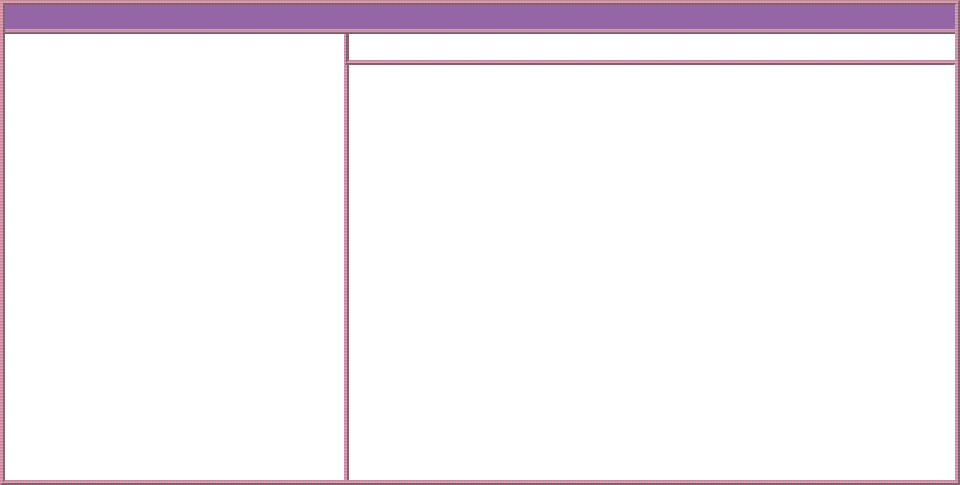
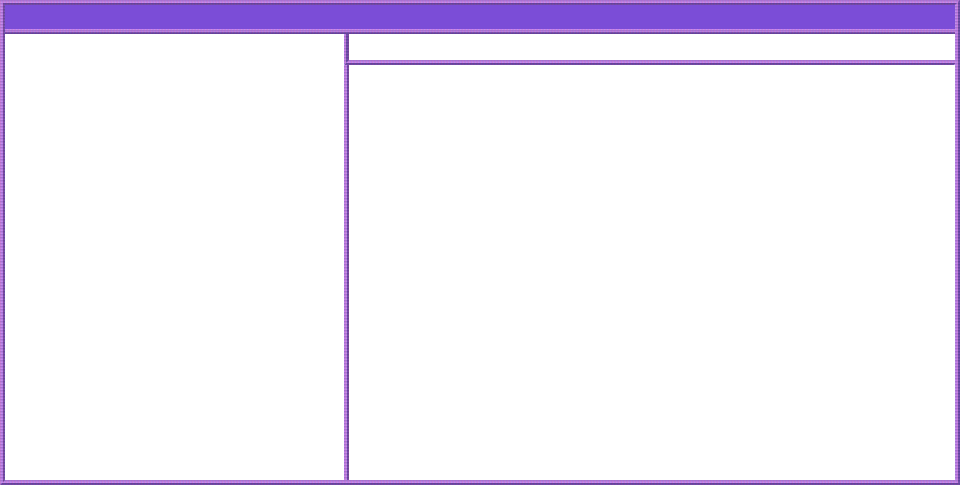
Update horizontal only pixel overlay and urgly af color

Changed region(s): [[0.0, 0.0, 1.0, 1.0]]

diff --git a/main.css b/main.css
@@ -1,8 +1,8 @@
 /*Most easy/basic changes can be done up here in the root area, edit the rest if you know what it does.*/
 @media all and (orientation:landscape) {
   :root{
-  --stripebackground:#af92b5;         /*The color of the small stripe just under the header*/
-  --windowbackground: #8b7991;        /*The color of the background of the main window main area.*/
+  --stripebackground:#874CCC;         /*The color of the small stripe just under the header*/
+  --windowbackground: #F27BBD;        /*The color of the background of the main window main area.*/
   --maintextcolor:#000;               /*The color of the text in the main area.*/
   --headercolor:#fff;                 /*The color of the text in the header/title.*/
   /* --linktextcolor:var(--maintextcolor); /*This line means that the links will have the same color as the normal text in the main area of the window. Change if you want different colors.*/
@@ -21,8 +21,8 @@
 
   /* The following settings are for the pixel overlay effect:*/
   --pixeloverlay-exists:visible;        /*Activate or deactivate the "pixel effect" overlay. Set to 'visible' to activate, set to 'hidden' to deactivate. When set to 'hidden' the other settings in this category don't matter.*/
-  --pixeloverlay-itensity:0.1;          /*How intense the overlay should be. Float between 0 and 1, but recommended range is more between 0 and 0.3. Higher values makes startpage darker.*/
-  --pixeloverlay-resolution:1;          /*A multiplier for the "pixel effect" size. 1 is default, higher means "bigger" pixels. If you use non whole numbers the probability of moiré patterns forming (and looking badly) increases a lot.*/
+  --pixeloverlay-itensity:0.3;          /*How intense the overlay should be. Float between 0 and 1, but recommended range is more between 0 and 0.3. Higher values makes startpage darker.*/
+  --pixeloverlay-resolution:1.0063;          /*A multiplier for the "pixel effect" size. 1 is default, higher means "bigger" pixels. If you use non whole numbers the probability of moiré patterns forming (and looking badly) increases a lot.*/
 
   /* The following setting are for the vignette overlay effect:*/
   --vignetteoverlay-exists:visible;     /*Activate or deactivate the "vignette effect" overlay. Set to 'visible' to activate, set to 'hidden' to deactivate. When set to 'hidden' the other settings in this category don't matter.*/
@@ -176,8 +176,7 @@
     top: 0px;
     left: 0px;
     pointer-events: none;
-    background: repeating-linear-gradient(90deg,rgba(0, 0, 255, var(--pixeloverlay-itensity)),rgba(0, 0, 255, var(--pixeloverlay-itensity)) calc(var(--pixeloverlay-resolution)*1px),rgba(255, 0, 0, var(--pixeloverlay-itensity)) calc(var(--pixeloverlay-resolution)*1px),rgba(255, 0, 0, var(--pixeloverlay-itensity)) calc(var(--pixeloverlay-resolution)*2px),rgba(0, 255, 0, var(--pixeloverlay-itensity)) calc(var(--pixeloverlay-resolution)*2px),rgba(0, 255, 0, var(--pixeloverlay-itensity)) calc(var(--pixeloverlay-resolution)*3px)),
-    repeating-linear-gradient(0deg,rgba(0, 0, 0, var(--pixeloverlay-itensity)),rgba(0, 0, 0, var(--pixeloverlay-itensity)) calc(var(--pixeloverlay-resolution)*1px), rgba(255, 255, 255, 0) 1px,rgba(255, 255, 255, 0) calc(var(--pixeloverlay-resolution)*3px));
+    background: repeating-linear-gradient(0deg,rgba(0, 0, 0, var(--pixeloverlay-itensity)),rgba(0, 0, 0, var(--pixeloverlay-itensity)) calc(var(--pixeloverlay-resolution)*1px), rgba(255, 255, 255, 0) 1px,rgba(255, 255, 255, 0) calc(var(--pixeloverlay-resolution)*3px));
     visibility: var(--pixeloverlay-exists);
   }
   .vignette{
@@ -212,8 +211,8 @@
 
 @media all and (orientation:portrait) {
   :root{
-  --stripebackground:#af92b5;         /*The color of the small stripe just under the header*/
-  --windowbackground:#8b7991;        /*The color of the background of the main window main area.*/
+  --stripebackground:#874CCC;         /*The color of the small stripe just under the header*/
+  --windowbackground:#F27BBD;        /*The color of the background of the main window main area.*/
   --maintextcolor:#000;               /*The color of the text in the main area.*/
   --headercolor:#fff;                 /*The color of the text in the header/title.*/
   /* --linktextcolor:var(--maintextcolor); /*This line means that the links will have the same color as the normal text in the main area of the window. Change if you want different colors.*/
@@ -232,8 +231,8 @@
 
   /* The following settings are for the pixel overlay effect:*/
   --pixeloverlay-exists:visible;        /*Activate or deactivate the "pixel effect" overlay. Set to 'visible' to activate, set to 'hidden' to deactivate. When set to 'hidden' the other settings in this category don't matter.*/
-  --pixeloverlay-itensity:0.1;          /*How intense the overlay should be. Float between 0 and 1, but recommended range is more between 0 and 0.3. Higher values makes startpage darker.*/
-  --pixeloverlay-resolution:1;          /*A multiplier for the "pixel effect" size. 1 is default, higher means "bigger" pixels. If you use non whole numbers the probability of moiré patterns forming (and looking badly) increases a lot.*/
+  --pixeloverlay-itensity:0.3;          /*How intense the overlay should be. Float between 0 and 1, but recommended range is more between 0 and 0.3. Higher values makes startpage darker.*/
+  --pixeloverlay-resolution:1.0063;          /*A multiplier for the "pixel effect" size. 1 is default, higher means "bigger" pixels. If you use non whole numbers the probability of moiré patterns forming (and looking badly) increases a lot.*/
 
   /* The following setting are for the vignette overlay effect:*/
   --vignetteoverlay-exists:visible;     /*Activate or deactivate the "vignette effect" overlay. Set to 'visible' to activate, set to 'hidden' to deactivate. When set to 'hidden' the other settings in this category don't matter.*/
@@ -387,8 +386,7 @@
     top: 0px;
     left: 0px;
     pointer-events: none;
-    background: repeating-linear-gradient(90deg,rgba(0, 0, 255, var(--pixeloverlay-itensity)),rgba(0, 0, 255, var(--pixeloverlay-itensity)) calc(var(--pixeloverlay-resolution)*1px),rgba(255, 0, 0, var(--pixeloverlay-itensity)) calc(var(--pixeloverlay-resolution)*1px),rgba(255, 0, 0, var(--pixeloverlay-itensity)) calc(var(--pixeloverlay-resolution)*2px),rgba(0, 255, 0, var(--pixeloverlay-itensity)) calc(var(--pixeloverlay-resolution)*2px),rgba(0, 255, 0, var(--pixeloverlay-itensity)) calc(var(--pixeloverlay-resolution)*3px)),
-    repeating-linear-gradient(0deg,rgba(0, 0, 0, var(--pixeloverlay-itensity)),rgba(0, 0, 0, var(--pixeloverlay-itensity)) calc(var(--pixeloverlay-resolution)*1px), rgba(255, 255, 255, 0) 1px,rgba(255, 255, 255, 0) calc(var(--pixeloverlay-resolution)*3px));
+    background:repeating-linear-gradient(0deg,rgba(0, 0, 0, var(--pixeloverlay-itensity)),rgba(0, 0, 0, var(--pixeloverlay-itensity)) calc(var(--pixeloverlay-resolution)*1px), rgba(255, 255, 255, 0) 1px,rgba(255, 255, 255, 0) calc(var(--pixeloverlay-resolution)*3px));
     visibility: var(--pixeloverlay-exists);
   }
   .vignette{

diff --git a/resources/style/pandoc.html b/resources/style/pandoc.html
@@ -1,0 +1,102 @@
+<style type="text/css">
+/* https://github.com/markdowncss/retro/blob/master/css/retro.css */
+
+@font-face {
+    font-family: "lemon";
+    src: url('lemon.woff');
+}
+
+/*
+@media print {
+    *, *:before, *:after {
+        background: transparent !important;
+        color: #000 !important;
+        box-shadow: none !important;
+        text-shadow: none !important;
+    }
+    a, a:visited { text-decoration: underline; }
+    a[href]:after { content: " (" attr(href) ")"; }
+    abbr[title]:after { content: " (" attr(title) ")"; }
+    a[href^="#"]:after, a[href^="javascript:"]:after { content: ""; }
+    pre, blockquote { border: 1px solid #999; page-break-inside: avoid; }
+    thead { display: table-header-group; }
+    tr, img { page-break-inside: avoid; }
+    img { max-width: 100% !important; }
+    p, h2, h3 { orphans: 3; widows: 3; }
+    h2, h3 { page-break-after: avoid; }
+}
+*/
+a, a:visited { color: #01ff70; }
+a:hover, a:focus, a:active { color: #2ecc40; }
+.retro-no-decoration { text-decoration: none; }
+p, .retro-p {
+    font-size: 1rem;
+    margin-bottom: 1.3rem;
+    /*text-indent: 50px*/
+}
+h1, .retro-h1, h2, .retro-h2, h3, .retro-h3, h4, .retro-h4 {
+    font-family: "lemon";
+    margin: 1.414rem 0 .5rem;
+    font-weight: inherit;
+    line-height: 1.42;
+}
+h1, .retro-h1 {
+    color: rgb(112, 221, 0);
+    margin-top: 0;
+    font-size: 3.998rem;
+}
+h2, .retro-h2 {
+    color: rgb(112, 221, 0);
+    margin-top: 0;
+    font-size: 2.827rem;
+}
+h3, .retro-h3 {
+    font-size: 1.999rem;
+}
+h4, .retro-h4 {
+    font-size: 1.414rem;
+}
+h5, .retro-h5 {
+    font-size: 1.121rem;
+}
+h6, .retro-h6 {
+    font-size: .88rem;
+}
+small, .retro-small {
+    font-size: .707em;
+}
+
+img, canvas, iframe, video, svg, select, textarea { max-width: 100%; }
+
+html, body {
+    /* background-image: url(https://raw.githubusercontent.com/apaz-cli/apaz-cli.github.io/master/pattern.png); */
+    background-color: #222;
+    min-height: 100%;
+    font-size: 20px;
+}
+body {
+    color: #fafafa;
+    /* font-family:  "lemon", "Courier New"; */
+    line-height: 1.65;
+    max-width: 48rem;
+    /* margin: 6rem auto 1rem; */
+    /* padding: .25rem; */
+}
+pre, code {
+    background-color: #333;
+    font-family: "lemon", "Menlo", "Monaco", "Courier New";
+    font-size: 12;
+}
+
+code span.dt { color: #e4a51e; } /* DataType */
+
+pre {
+    padding: .5rem;
+    line-height: 1.25;
+    overflow-x: scroll;
+}
+blockquote {
+    border-left: 3px solid #01ff70;
+    padding-left: 1rem;
+}
+</style>
